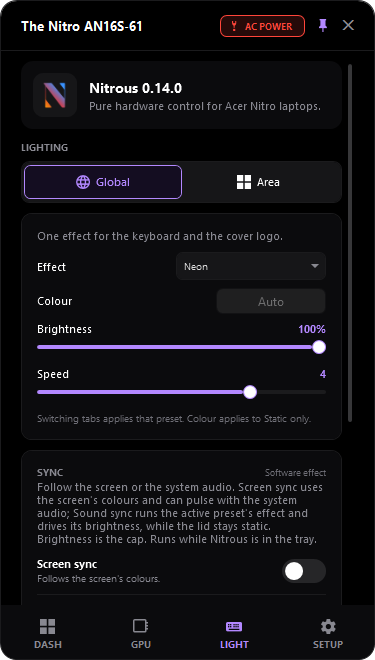
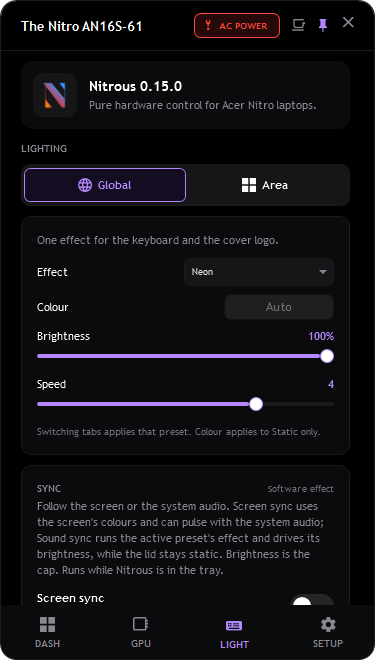
docs(site): 0.15.0 screenshots, fallbacks and structured data
Retakes the four page shots from the 0.15.0 build, with the SETUP shot scrolled to the CPU power limit card so the 1 W PL1/PL2 sliders are the highlight. Updates the no-JS version fallbacks, the release date, the JSON-LD softwareVersion and the SETUP alt text.

diff --git a/docs/index.html b/docs/index.html
@@ -82,7 +82,7 @@
           "downloadUrl": "https://github.com/jeremyaliparo/nitrous/releases/latest/download/Nitrous.exe",
           "applicationCategory": "UtilitiesApplication",
           "operatingSystem": "Windows 10, Windows 11",
-          "softwareVersion": "0.14.0",
+          "softwareVersion": "0.15.0",
           "license": "https://github.com/jeremyaliparo/nitrous/blob/master/LICENSE",
           "softwareHelp": "https://github.com/jeremyaliparo/nitrous#readme",
           "releaseNotes": "https://github.com/jeremyaliparo/nitrous/blob/master/CHANGELOG.md",
@@ -220,7 +220,7 @@
       <a class="brand" href="#top">
         <svg class="brand-mark" viewBox="0 0 64 64" aria-hidden="true"><path d="M8 8h12l24 34V8h12v48H44L20 22v34H8z" fill="url(#nitroGrad)"/></svg>
         <span class="brand-name">Nitrous</span>
-        <span class="brand-tag">v<span data-gh-version>0.14.0</span></span>
+        <span class="brand-tag">v<span data-gh-version>0.15.0</span></span>
       </a>
 
       <nav class="nav" id="primary-nav" aria-label="Primary">
@@ -281,7 +281,7 @@
           <div class="hero-cta reveal delay-3">
             <a class="btn btn-primary btn-lg" href="https://github.com/jeremyaliparo/nitrous/releases/latest/download/Nitrous.exe">
               <svg class="icon" aria-hidden="true"><use href="#i-windows"/></svg>
-              Download Nitrous <span class="btn-version" data-gh-version>0.14.0</span>
+              Download Nitrous <span class="btn-version" data-gh-version>0.15.0</span>
             </a>
             <a class="btn btn-ghost btn-lg" href="https://github.com/jeremyaliparo/nitrous" target="_blank" rel="noopener">
               <svg class="icon" aria-hidden="true"><use href="#i-github"/></svg>
@@ -618,12 +618,12 @@
             <div class="shot-panel" id="panel-settings" role="tabpanel" aria-labelledby="tab-settings" hidden>
               <figure class="shot">
                 <div class="app-frame app-frame-sm">
-                  <img src="assets/settings.png" width="375" height="660" alt="Nitrous setup tab with CPU power limits, per-AC-and-battery boost modes, an 80% battery charge limit, USB charging while off and auto-switch power" loading="lazy" decoding="async">
+                  <img src="assets/settings.png" width="375" height="660" alt="Nitrous setup tab, Power category: the CPU power limit card with its sustained and burst 1 W sliders, the mode's request as each slider's ceiling, and Apply and Reset" loading="lazy" decoding="async">
                 </div>
-                <figcaption>Setup · power and battery</figcaption>
+                <figcaption>Setup · CPU power limits</figcaption>
               </figure>
             </div>
-            <p class="shot-hint"><span class="pulse-dot" aria-hidden="true"></span>Live app · v<span data-gh-version>0.14.0</span></p>
+            <p class="shot-hint"><span class="pulse-dot" aria-hidden="true"></span>Live app · v<span data-gh-version>0.15.0</span></p>
           </div>
         </div>
       </div>
@@ -819,8 +819,8 @@
               <span class="eyebrow">Latest release</span>
               <span class="release-badge">Stable</span>
             </div>
-            <p class="release-version">v<span data-gh-version>0.14.0</span></p>
-            <p class="release-date">Released <span data-gh-date>Nov 20, 2026</span></p>
+            <p class="release-version">v<span data-gh-version>0.15.0</span></p>
+            <p class="release-date">Released <span data-gh-date>Nov 27, 2026</span></p>
 
             <dl class="release-rows">
               <div><dt>Platform</dt><dd>Windows 10 / 11 x64</dd></div>
@@ -965,7 +965,7 @@
               <svg class="icon" aria-hidden="true"><use href="#i-external"/></svg>
             </a>
           </div>
-          <p class="cta-foot">v<span data-gh-version>0.14.0</span> · MIT · Windows 10/11 x64 · .NET 10 Desktop Runtime</p>
+          <p class="cta-foot">v<span data-gh-version>0.15.0</span> · MIT · Windows 10/11 x64 · .NET 10 Desktop Runtime</p>
         </div>
       </div>
     </section>
@@ -990,7 +990,7 @@
           </div>
           <p class="footer-status">
             <span class="pulse-dot" aria-hidden="true"></span>
-            Actively maintained · v<span data-gh-version>0.14.0</span> · <span data-gh-date>Nov 20, 2026</span>
+            Actively maintained · v<span data-gh-version>0.15.0</span> · <span data-gh-date>Nov 27, 2026</span>
           </p>
         </div>
 
@@ -1032,3 +1032,4 @@
   <script src="js/main.js" defer></script>
 </body>
 </html>
+
